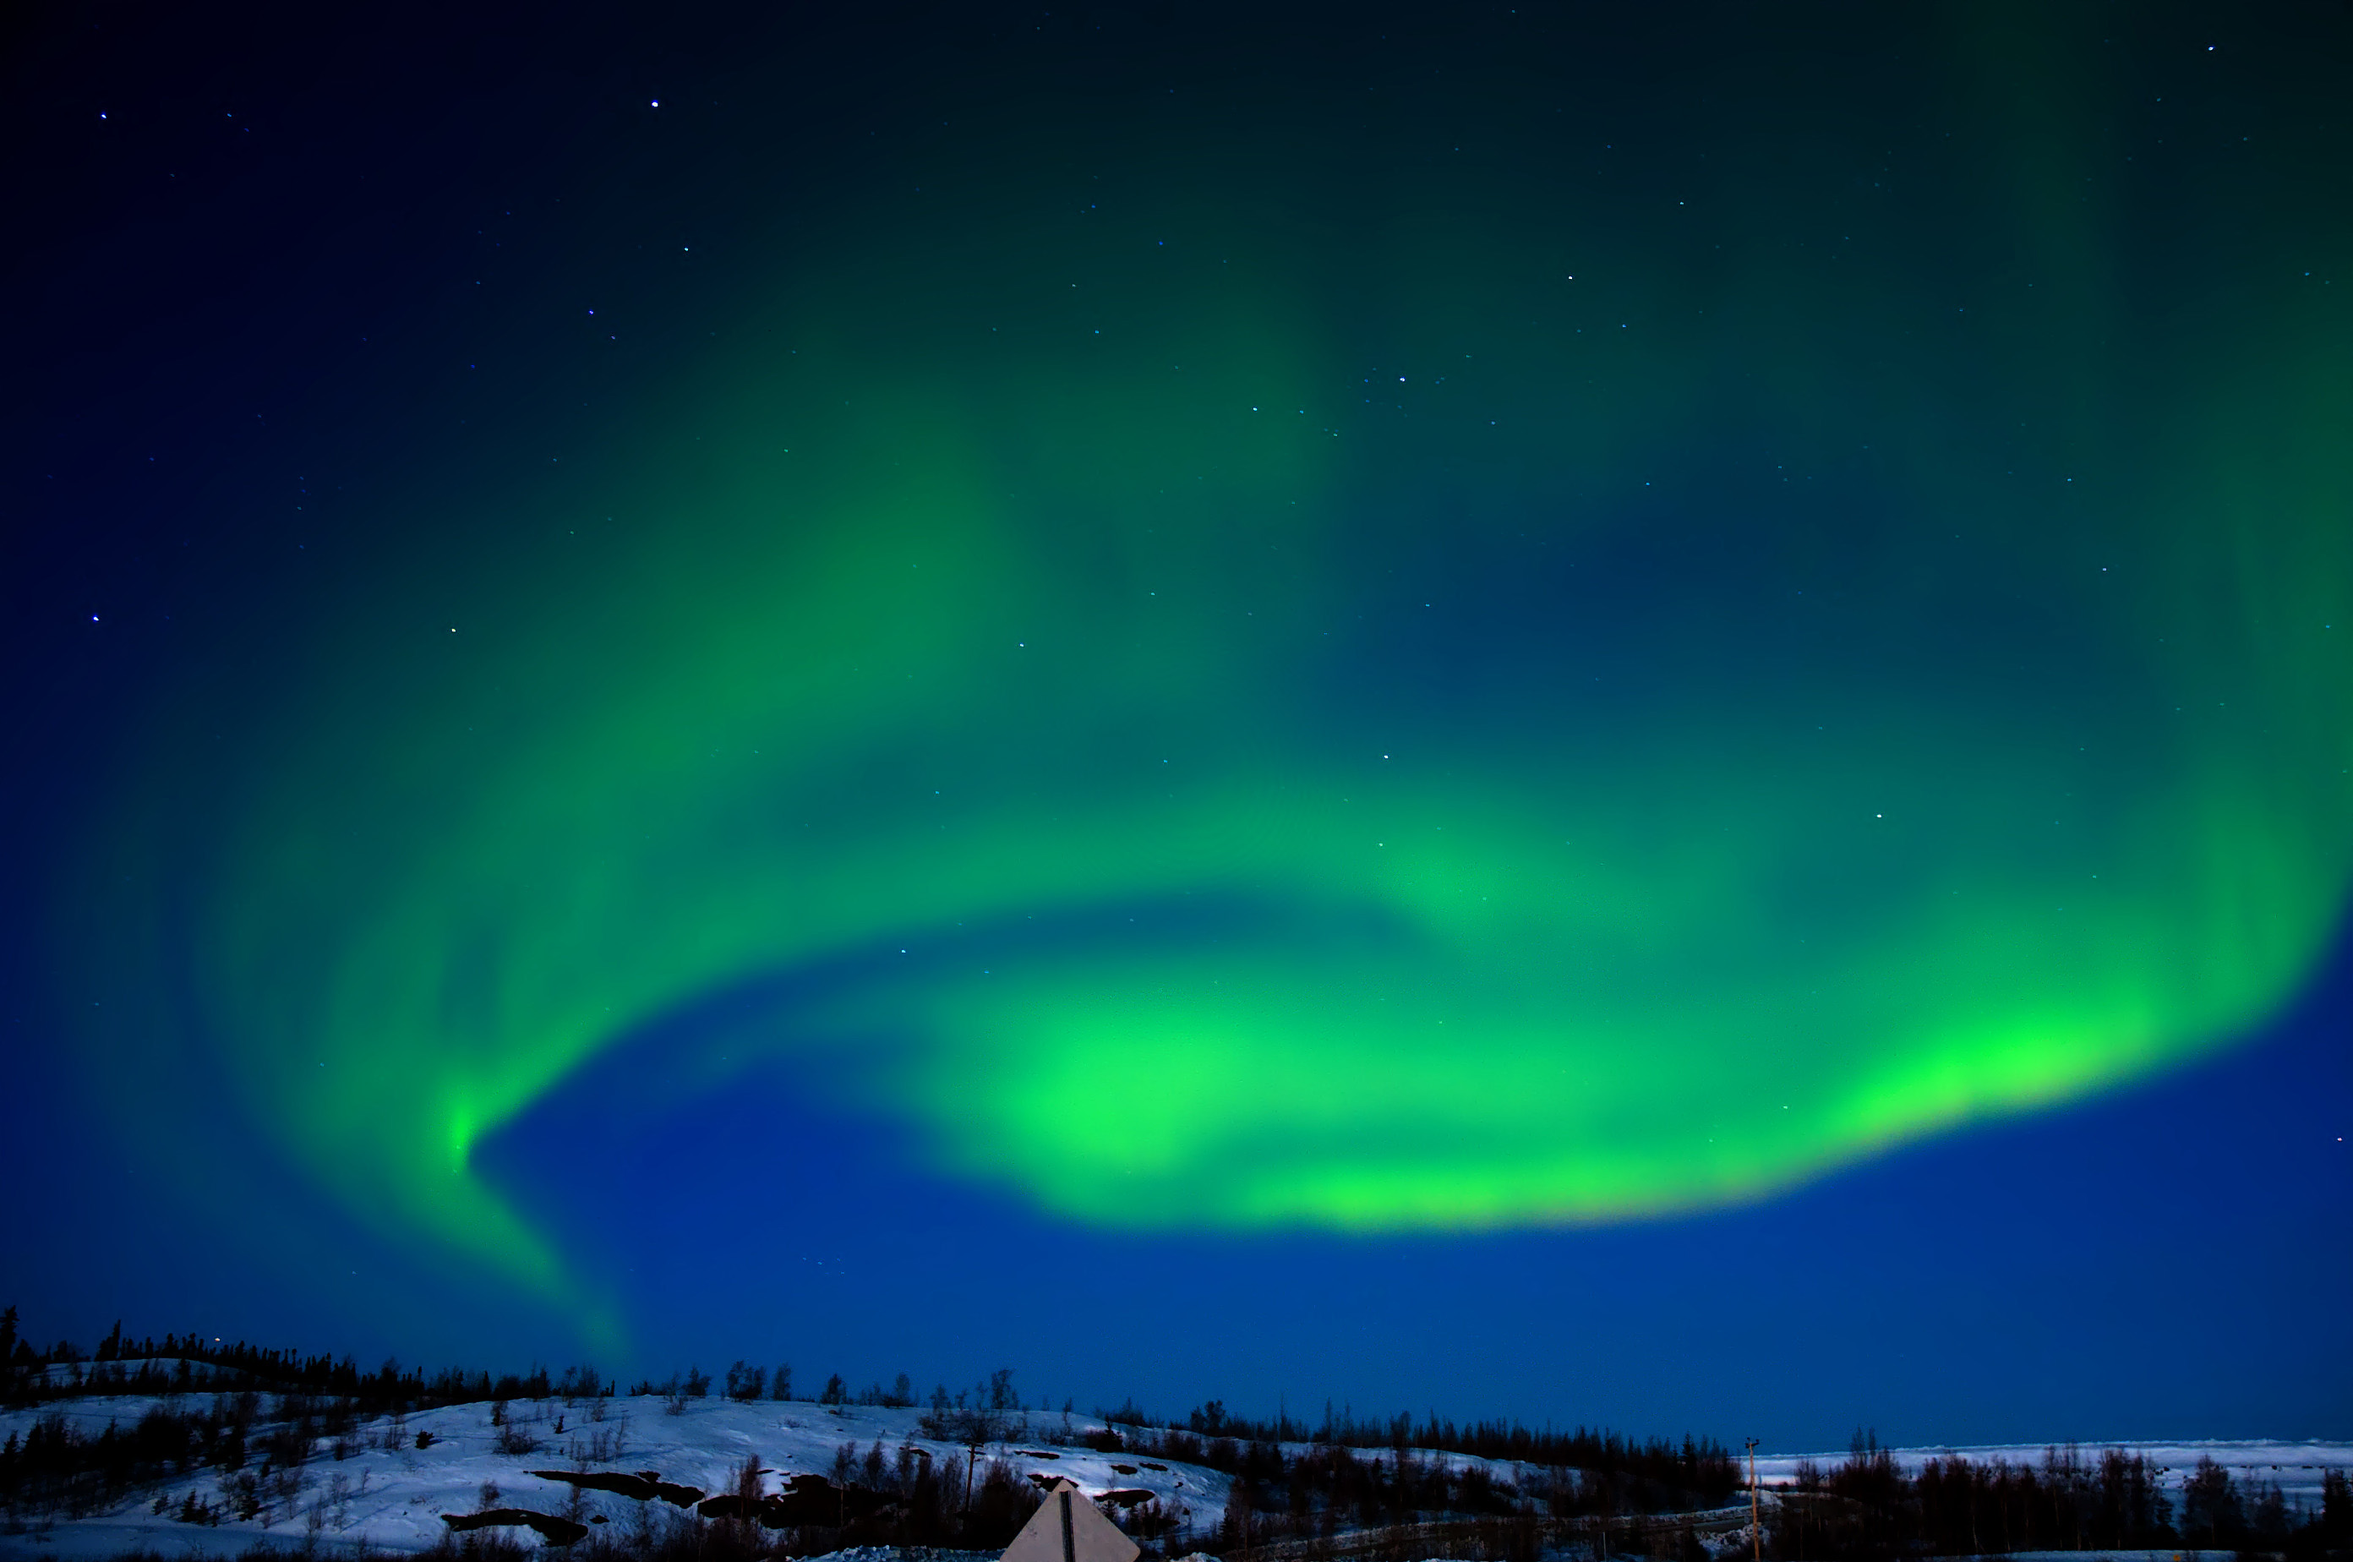
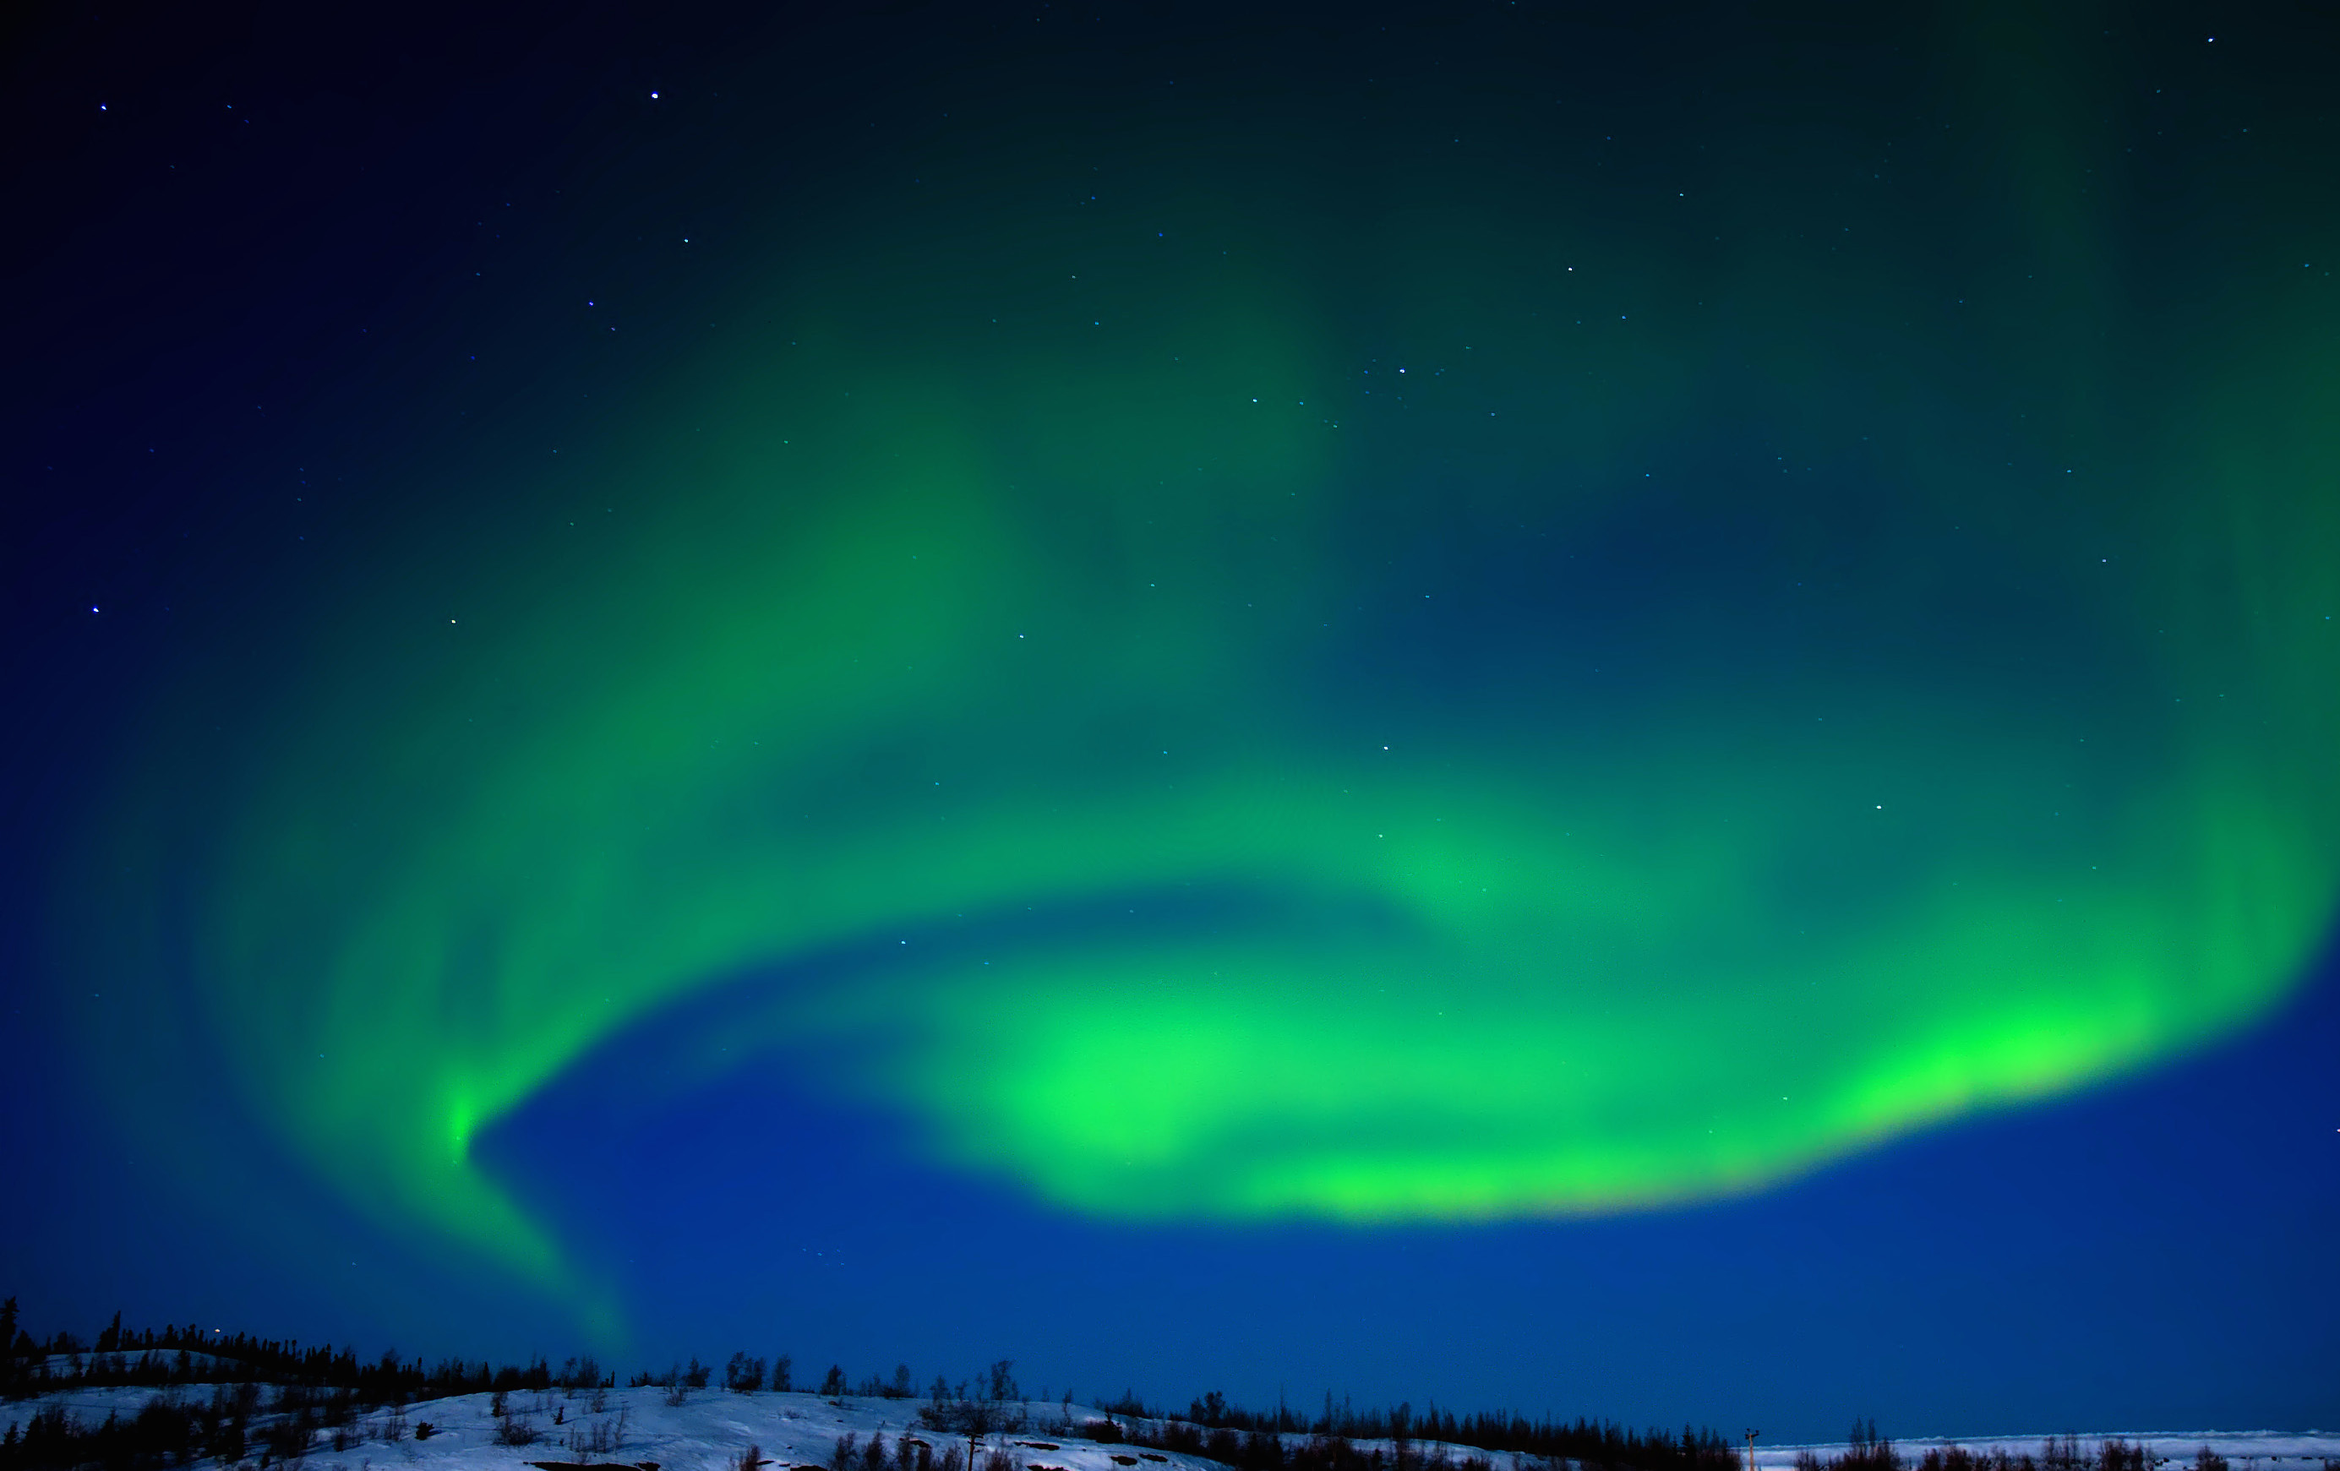
update background image

Changed region(s): [[0.0, 0.4963, 1.0, 1.0], [0.3106, 0.6824, 0.3416, 0.7134], [0.2795, 0.7134, 0.3106, 0.7444]]

diff --git a/main.css b/main.css
@@ -1,4 +1,4 @@
-/* http://meyerweb.com/eric/tools/css/reset/ 
+/* http://meyerweb.com/eric/tools/css/reset/
    v2.0 | 20110126
    License: none (public domain)
 */
@@ -12,8 +12,8 @@ b, u, i, center,
 dl, dt, dd, ol, ul, li,
 fieldset, form, label, legend,
 table, caption, tbody, tfoot, thead, tr, th, td,
-article, aside, canvas, details, embed, 
-figure, figcaption, footer, header, hgroup, 
+article, aside, canvas, details, embed,
+figure, figcaption, footer, header, hgroup,
 menu, nav, output, ruby, section, summary,
 time, mark, audio, video {
 	margin: 0;
@@ -22,11 +22,11 @@ time, mark, audio, video {
 	font-size: 100%;
 	font: inherit;
 	vertical-align: baseline;
-	
+
 
 }
 /* HTML5 display-role reset for older browsers */
-article, aside, details, figcaption, figure, 
+article, aside, details, figcaption, figure,
 footer, header, hgroup, menu, nav, section {
 	display: block;
 }
@@ -56,18 +56,18 @@ table {
 }
 
 body {
-	<!-- background-image:url("images/aurora-borealis-manitoba-canada.jpg"); -->
+	background-image:url("images/aurora-borealisGoodone.jpg");
     background-position:center;
     background-color:#F8F8F8;
 	background-repeat:none;
-	background-size:2000px 1100px;
+	background-size:2000px 1000px;
 	background-repeat:none;
     height:1000px;
     background-repeat:no-repeat;
 }
 
 .main {
-	 
+
 	 position: absolute;
      margin: auto;
      top: 0;
@@ -80,7 +80,7 @@ body {
       background: rgba(175, 175, 175, 0.8);
     -pie-background:  rgba(175, 175, 175, 0.8);
     behavior: url(PIE.htc);
-     
+
 }
 
 
@@ -208,7 +208,7 @@ a:visited {
     -moz-user-select: none;
     -ms-user-select: none;
     user-select: none;
-	
+
 }
 
 
@@ -222,3 +222,6 @@ a:visited {
     alert('working'):
 }
 
+#wrapper {
+	background-image:url("images/aurora-borealisGoodone.jpg")
+}

diff --git a/index.html b/index.html
@@ -9,39 +9,39 @@
 </head>
 
 <body>
-
+<div id="wrapper">
 <div class="main">
 <div id="sections">
       <div id="left">
         <div id="logo">
           <img src="images/todolistlogoMedBeam.png" alt="logo"/>
         </div>
-       
+
         <div id="instructions">
-          
+
           <ul>
             <li>
             <input type="text" id="input" placeholder="add task" maxlength="46">
             </li>
-         
-          
+
+
           <li class="spcl">type and press enter to add task</li>
-          
+
           <li class="spcl">click once to mark task complete</li>
-          
+
           <li class="spcl">double click to delete task</li>
-          
+
           <li class="spcl" id="clearList"><a href="javascript:history.go(0)">click here to clear</a></li>
-          
+
           </ul>
         </div>
       </div>
       <div id="center">
         <div class="heads">tasks</div>
-        
+
         <div id="addedtasks">
-        
-        </div> 
+
+        </div>
         <div id="taskplaceholdersection">
           <p class="taskplacemarks"></p>
           <p class="taskplacemarks"></p>
@@ -66,7 +66,5 @@
 
 
 </div>
-
+</div>
 </body>
-
-
